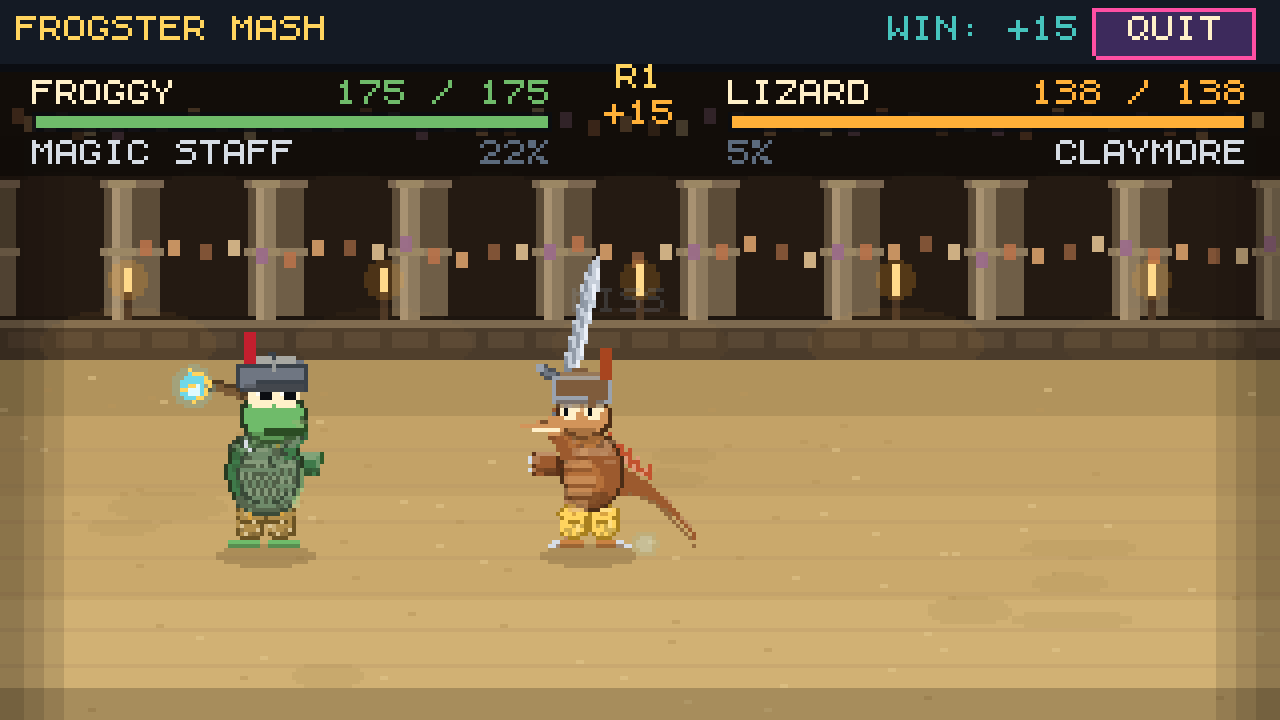
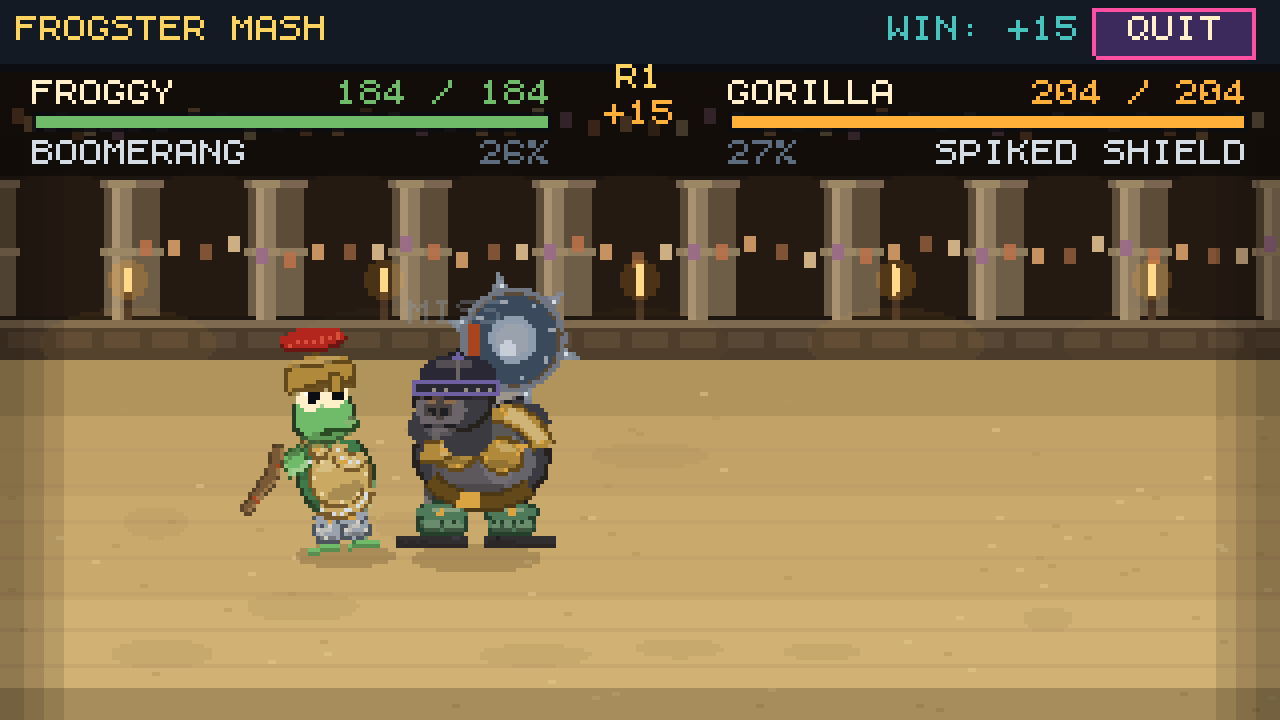
Mash: each armour piece says what it is for its own part of the body
A material was one line on the card whatever it was covering, so a
chain hood, a chain shirt and chain leggings all read the same, and a
helmet's line ('YOU WILL HEAR NOTHING') turned up on a chest piece.
Every material now carries a head, a chest and a legs line, each true to
what the material does and what that piece is -- a quilted cap, a
padded jack, quilted leggings -- and the card shows the one for the
slot being chosen.  Every line fits the card's two rows.

Claude-Session: https://claude.ai/code/session_014fZqzLJ4fL4whRPBpUnjrb

diff --git a/src/minigames/frogstermash.ts b/src/minigames/frogstermash.ts
@@ -665,6 +665,12 @@ export interface ArmourMat {
   /** The one line that says what it is for, when the numbers do not. */
   note: string;
   /**
+   * AND WHAT IT IS ON EACH PART OF THE BODY.  One material is three different
+   * pieces -- a helmet, a chest piece and something for the legs -- and the
+   * card says which one it is looking at rather than repeating the same line.
+   */
+  notes?: Partial<Record<'head' | 'body' | 'legs', string>>;
+  /**
    * A name short enough for the kit sheet, which lists three of them on one
    * centred line.  Trimming " ARMOUR" off the full name was not enough --
    * three REINFORCED HIDEs came to 330 pixels of a 320 pixel screen and went
@@ -674,7 +680,7 @@ export interface ArmourMat {
 }
 export const MATERIALS: ArmourMat[] = [
   // ---- NOTHING, AND THE THINGS THAT BARELY COUNT
-  { key: 'none', name: 'NO ARMOUR', def: 0, evade: 0, heavy: [1, 1], resist: [10, 10], colour: 0x6d5a45, edge: 0x4a3c2d, short: 'NONE', note: 'NOTHING THERE, AND NOTHING TO CARRY' },
+  { key: 'none', name: 'NO ARMOUR', def: 0, evade: 0, heavy: [1, 1], resist: [10, 10], colour: 0x6d5a45, edge: 0x4a3c2d, short: 'NONE', note: 'NOTHING THERE, AND NOTHING TO CARRY', notes: { head: 'A BARE HEAD. EVERY BLOW GOES STRAIGHT IN', body: 'NOTHING THERE, AND NOTHING TO CARRY', legs: 'BARE LEGS. QUICK, AND NOTHING IN THE WAY' } },
   // ---- TEN MORE, FILLING THE LADDER RATHER THAN EXTENDING IT.
   //
   // None of these is better than HEAVY PLATE and none is lighter than cloth:
@@ -682,44 +688,44 @@ export const MATERIALS: ArmourMat[] = [
   // instead of jumps.  Three of them break the pattern on purpose -- bone and
   // dragon scale shrug off quick hits and not heavy ones, obsidian stops a
   // great deal and shatters while it does it.
-  { key: 'padded', name: 'PADDED JACK', def: 0.08, evade: 0.05, heavy: [1, 2], resist: [3, 5], colour: 0xc9b48c, edge: 0x8a7654, short: 'PADDED', note: 'CLOTH, BUT ENOUGH OF IT TO NOTICE' },
-  { key: 'hide', name: 'HIDE ARMOUR', def: 0.12, evade: 0, heavy: [2, 4], resist: [4, 6], colour: 0x8a6440, edge: 0x4f3722, short: 'HIDE', note: 'SOMETHING ELSE WORE IT FIRST' },
-  { key: 'studded', name: 'STUDDED LEATHER', def: 0.14, evade: 0, heavy: [3, 5], resist: [6, 8], colour: 0x7f5c3c, edge: 0x9aa2ae, short: 'STUDDED', note: 'LEATHER WITH OPINIONS HAMMERED INTO IT' },
-  { key: 'bone', name: 'BONE ARMOUR', def: 0.17, evade: 0, soft: 0.38, heavy: [3, 5], resist: [4, 6], colour: 0xe4ddc6, edge: 0x9c9482, short: 'BONE', note: 'TURNS THE QUICK ONES. SPLITS ON THE REST' },
-  { key: 'brigandine', name: 'BRIGANDINE', def: 0.19, evade: 0, heavy: [4, 6], resist: [7, 9], colour: 0x6b4f3a, edge: 0xb9c2c8, short: 'BRIG', note: 'PLATES ON THE INSIDE WHERE THEY CANNOT SEE THEM' },
-  { key: 'lamellar', name: 'LAMELLAR ARMOUR', def: 0.22, evade: 0, heavy: [4, 6], resist: [6, 8], colour: 0x8a7f5e, edge: 0x4e4634, short: 'LAMELLAR', note: 'A THOUSAND LITTLE PLATES, ALL LACED TOGETHER' },
-  { key: 'corinthian', name: 'CORINTHIAN HELM', def: 0.24, evade: 0, heavy: [4, 6], resist: [7, 9], colour: 0xb08d4a, edge: 0x6b5324, short: 'CORINTH', note: 'YOU WILL LOOK MAGNIFICENT AND HEAR NOTHING' },
-  { key: 'knight', name: 'KNIGHT HELM', def: 0.27, evade: 0, heavy: [5, 7], resist: [7, 9], colour: 0xa9b2bd, edge: 0x59616b, short: 'KNIGHT', note: 'A LETTERBOX TO SEE THE WHOLE FIGHT THROUGH' },
-  { key: 'obsidian', name: 'OBSIDIAN ARMOUR', def: 0.29, evade: 0, heavy: [5, 7], resist: [2, 4], colour: 0x2b2836, edge: 0x6d5fa0, short: 'OBSIDIAN', note: 'STOPS ALMOST ANYTHING, ALMOST ONCE' },
-  { key: 'dragon', name: 'DRAGON SCALE', def: 0.31, evade: 0, soft: 0.34, heavy: [6, 8], resist: [7, 9], colour: 0x4f7a5a, edge: 0x24402c, short: 'DRAGON', note: 'NOBODY ASKS WHERE IT CAME FROM' },
+  { key: 'padded', name: 'PADDED JACK', def: 0.08, evade: 0.05, heavy: [1, 2], resist: [3, 5], colour: 0xc9b48c, edge: 0x8a7654, short: 'PADDED', note: 'CLOTH, BUT ENOUGH OF IT TO NOTICE', notes: { head: 'A QUILTED CAP. TAKES THE EDGE OFF A KNOCK', body: 'CLOTH, BUT ENOUGH OF IT TO NOTICE', legs: 'QUILTED LEGGINGS. SOFT, WARM, NOT MUCH ELSE' } },
+  { key: 'hide', name: 'HIDE ARMOUR', def: 0.12, evade: 0, heavy: [2, 4], resist: [4, 6], colour: 0x8a6440, edge: 0x4f3722, short: 'HIDE', note: 'SOMETHING ELSE WORE IT FIRST', notes: { head: 'A FUR HOOD WITH THE EARS STILL ON IT', body: 'SOMETHING ELSE WORE IT FIRST', legs: 'RAWHIDE WRAPPED ROUND THE SHINS AND TIED' } },
+  { key: 'studded', name: 'STUDDED LEATHER', def: 0.14, evade: 0, heavy: [3, 5], resist: [6, 8], colour: 0x7f5c3c, edge: 0x9aa2ae, short: 'STUDDED', note: 'LEATHER WITH OPINIONS HAMMERED INTO IT', notes: { head: 'A LEATHER CAP STUDDED ROUND THE BRIM', body: 'LEATHER WITH OPINIONS HAMMERED INTO IT', legs: 'STUDDED LEGGINGS THAT JINGLE WHEN YOU RUN' } },
+  { key: 'bone', name: 'BONE ARMOUR', def: 0.17, evade: 0, soft: 0.38, heavy: [3, 5], resist: [4, 6], colour: 0xe4ddc6, edge: 0x9c9482, short: 'BONE', note: 'TURNS THE QUICK ONES. SPLITS ON THE REST', notes: { head: 'A SKULL FOR A HELMET. IT TURNS THE QUICK ONES', body: 'RIBS OVER RIBS. TURNS THE QUICK ONES, SPLITS ON THE REST', legs: 'BONE SPLINTS ON THE SHINS. LIGHT, AND BRITTLE' } },
+  { key: 'brigandine', name: 'BRIGANDINE', def: 0.19, evade: 0, heavy: [4, 6], resist: [7, 9], colour: 0x6b4f3a, edge: 0xb9c2c8, short: 'BRIG', note: 'PLATES ON THE INSIDE WHERE THEY CANNOT SEE THEM', notes: { head: 'A CLOTH CAP WITH IRON SEWN IN UNDER IT', body: 'PLATES ON THE INSIDE WHERE THEY CANNOT SEE THEM', legs: 'RIVETED CLOTH OVER IRON STRIPS DOWN THE THIGH' } },
+  { key: 'lamellar', name: 'LAMELLAR ARMOUR', def: 0.22, evade: 0, heavy: [4, 6], resist: [6, 8], colour: 0x8a7f5e, edge: 0x4e4634, short: 'LAMELLAR', note: 'A THOUSAND LITTLE PLATES, ALL LACED TOGETHER', notes: { head: 'LITTLE PLATES LACED IN A SKIRT ROUND THE HEAD', body: 'A THOUSAND LITTLE PLATES, ALL LACED TOGETHER', legs: 'LACED LAMES DOWN THE LEG THAT BEND AS IT DOES' } },
+  { key: 'corinthian', name: 'CORINTHIAN HELM', def: 0.24, evade: 0, heavy: [4, 6], resist: [7, 9], colour: 0xb08d4a, edge: 0x6b5324, short: 'CORINTH', note: 'YOU WILL LOOK MAGNIFICENT AND HEAR NOTHING', notes: { head: 'YOU WILL LOOK MAGNIFICENT AND HEAR NOTHING', body: 'A BRONZE CHEST CAST TO LOOK LIKE MUSCLES', legs: 'BRONZE GREAVES CAST TO THE SHAPE OF A SHIN' } },
+  { key: 'knight', name: 'KNIGHT HELM', def: 0.27, evade: 0, heavy: [5, 7], resist: [7, 9], colour: 0xa9b2bd, edge: 0x59616b, short: 'KNIGHT', note: 'A LETTERBOX TO SEE THE WHOLE FIGHT THROUGH', notes: { head: 'A LETTERBOX TO SEE THE WHOLE FIGHT THROUGH', body: 'A POLISHED CUIRASS, MADE TO BE SEEN', legs: 'JOINTED STEEL, KNEE TO ANKLE. IT CLANKS' } },
+  { key: 'obsidian', name: 'OBSIDIAN ARMOUR', def: 0.29, evade: 0, heavy: [5, 7], resist: [2, 4], colour: 0x2b2836, edge: 0x6d5fa0, short: 'OBSIDIAN', note: 'STOPS ALMOST ANYTHING, ALMOST ONCE', notes: { head: 'A GLASS HELM THAT STOPS A SKULL-SPLITTER ONCE', body: 'STOPS ALMOST ANYTHING, ALMOST ONCE', legs: 'BLACK GLASS SHIN PLATES. THEY WILL SHATTER' } },
+  { key: 'dragon', name: 'DRAGON SCALE', def: 0.31, evade: 0, soft: 0.34, heavy: [6, 8], resist: [7, 9], colour: 0x4f7a5a, edge: 0x24402c, short: 'DRAGON', note: 'NOBODY ASKS WHERE IT CAME FROM', notes: { head: 'A HORNED CAP OF DRAGON SCALE. NOBODY ASKS', body: 'NOBODY ASKS WHERE IT CAME FROM', legs: 'SCALED LEGGINGS. SHRUGS OFF THE QUICK ONES' } },
 
-  { key: 'cloth', name: 'LIGHT CLOTH ARMOUR', def: 0.04, evade: 0.09, heavy: [1, 1], resist: [2, 4], colour: 0xd8cbb0, edge: 0x9a8e74, short: 'CLOTH', note: 'YOU WILL BE VERY QUICK AND VERY SORRY' },
-  { key: 'tuxedo', name: 'TUXEDO', def: 0.05, evade: 0, heavy: [1, 2], resist: [2, 4], colour: 0x2a2d3a, edge: 0xdfe4ee, short: 'TUXEDO', note: 'FIVE PERCENT DEFENCE. THE REST IS FASHION' },
-  { key: 'crown', name: 'CROWN', def: 0.06, evade: 0, heavy: [1, 2], resist: [3, 5], colour: 0xffd45e, edge: 0xa8801e, short: 'CROWN', note: 'IT PROTECTS NOTHING AND MEANS EVERYTHING' },
+  { key: 'cloth', name: 'LIGHT CLOTH ARMOUR', def: 0.04, evade: 0.09, heavy: [1, 1], resist: [2, 4], colour: 0xd8cbb0, edge: 0x9a8e74, short: 'CLOTH', note: 'YOU WILL BE VERY QUICK AND VERY SORRY', notes: { head: 'A HEADBAND. KEEPS THE SWEAT OUT, NOT THE CLUB', body: 'YOU WILL BE VERY QUICK AND VERY SORRY', legs: 'LOOSE TROUSERS. NOTHING SLOWS YOU DOWN' } },
+  { key: 'tuxedo', name: 'TUXEDO', def: 0.05, evade: 0, heavy: [1, 2], resist: [2, 4], colour: 0x2a2d3a, edge: 0xdfe4ee, short: 'TUXEDO', note: 'FIVE PERCENT DEFENCE. THE REST IS FASHION', notes: { head: 'A TOP HAT. IT WILL NOT SURVIVE THE FIRST ROUND', body: 'FIVE PERCENT DEFENCE. THE REST IS FASHION', legs: 'PRESSED TROUSERS WITH A VERY SHARP CREASE' } },
+  { key: 'crown', name: 'CROWN', def: 0.06, evade: 0, heavy: [1, 2], resist: [3, 5], colour: 0xffd45e, edge: 0xa8801e, short: 'CROWN', note: 'IT PROTECTS NOTHING AND MEANS EVERYTHING', notes: { head: 'IT PROTECTS NOTHING AND MEANS EVERYTHING', body: 'ROYAL ROBES. THE CROWD CHEERS, THE AXE DOES NOT', legs: 'GOLD-TRIMMED HOSE. REGAL AND USELESS' } },
 
   // ---- LIGHT
-  { key: 'leather', name: 'LEATHER ARMOUR', def: 0.10, evade: 0, heavy: [2, 4], resist: [5, 7], colour: 0x9c7248, edge: 0x5d4028, short: 'LEATHER', note: 'LIGHT, AND ABOUT AS USEFUL AS THAT SOUNDS' },
-  { key: 'tactical', name: 'TACTICAL ARMOUR', def: 0.10, evade: 0.15, heavy: [2, 4], resist: [6, 8], colour: 0x3f4a3a, edge: 0x22281f, short: 'TACTICAL', note: 'STOPS LITTLE. MUCH HARDER TO HIT' },
-  { key: 'reinforced', name: 'REINFORCED LEATHER', def: 0.13, evade: 0, heavy: [3, 5], resist: [7, 9], colour: 0x7a5a3a, edge: 0x452f1c, short: 'R.LEATHER', note: 'LEATHER THAT HAS BEEN THOUGHT ABOUT' },
-  { key: 'tin', name: 'TIN ARMOUR', def: 0.15, evade: 0, heavy: [3, 5], resist: [3, 5], colour: 0xb9c2c8, edge: 0x6d767c, short: 'TIN', note: 'CHEAP, LOUD, BETTER THAN A SHIRT' },
-  { key: 'hood', name: 'CHAIN HOOD', def: 0.16, evade: 0, heavy: [3, 5], resist: [6, 8], colour: 0x87909c, edge: 0x464e58, short: 'HOOD', note: 'RINGS, AND NOT MANY OF THEM' },
+  { key: 'leather', name: 'LEATHER ARMOUR', def: 0.10, evade: 0, heavy: [2, 4], resist: [5, 7], colour: 0x9c7248, edge: 0x5d4028, short: 'LEATHER', note: 'LIGHT, AND ABOUT AS USEFUL AS THAT SOUNDS', notes: { head: 'A LEATHER CAP. BETTER THAN HAIR', body: 'LIGHT, AND ABOUT AS USEFUL AS THAT SOUNDS', legs: 'LEATHER CHAPS. THEY STOP A SCRATCH' } },
+  { key: 'tactical', name: 'TACTICAL ARMOUR', def: 0.10, evade: 0.15, heavy: [2, 4], resist: [6, 8], colour: 0x3f4a3a, edge: 0x22281f, short: 'TACTICAL', note: 'STOPS LITTLE. MUCH HARDER TO HIT', notes: { head: 'A PADDED HEADSET. HARDER TO HIT, NOT HARDER', body: 'STOPS LITTLE. MUCH HARDER TO HIT', legs: 'CARGO KNEE PADS. LIGHT FEET, QUICK DODGES' } },
+  { key: 'reinforced', name: 'REINFORCED LEATHER', def: 0.13, evade: 0, heavy: [3, 5], resist: [7, 9], colour: 0x7a5a3a, edge: 0x452f1c, short: 'R.LEATHER', note: 'LEATHER THAT HAS BEEN THOUGHT ABOUT', notes: { head: 'BOILED LEATHER, SET HARD ROUND THE SKULL', body: 'LEATHER THAT HAS BEEN THOUGHT ABOUT', legs: 'STIFFENED LEATHER GREAVES, LACED TIGHT' } },
+  { key: 'tin', name: 'TIN ARMOUR', def: 0.15, evade: 0, heavy: [3, 5], resist: [3, 5], colour: 0xb9c2c8, edge: 0x6d767c, short: 'TIN', note: 'CHEAP, LOUD, BETTER THAN A SHIRT', notes: { head: 'A TIN POT WITH A CHIN STRAP. IT RINGS', body: 'CHEAP, LOUD, BETTER THAN A SHIRT', legs: 'TIN SHIN GUARDS. THEY DENT, THEN THEY BEND' } },
+  { key: 'hood', name: 'CHAIN HOOD', def: 0.16, evade: 0, heavy: [3, 5], resist: [6, 8], colour: 0x87909c, edge: 0x464e58, short: 'HOOD', note: 'RINGS, AND NOT MANY OF THEM', notes: { head: 'A MAIL COIF. RINGS, AND NOT MANY OF THEM', body: 'A SHORT MAIL SHIRT THAT STOPS AT THE RIBS', legs: 'MAIL CHAUSSES. SLICES STOP, BRUISES DO NOT' } },
 
   // ---- THE MIDDLE
-  { key: 'scale', name: 'SCALE ARMOUR', def: 0.18, evade: 0, soft: 0.34, heavy: [4, 6], resist: [6, 8], colour: 0x6f8a6a, edge: 0x3a4a38, short: 'SCALE', note: 'SHRUGS OFF THE QUICK ONES. NOT THE BIG ONES' },
-  { key: 'chain', name: 'CHAIN ARMOUR', def: 0.20, evade: 0, heavy: [4, 6], resist: [6, 8], colour: 0x8e9cad, edge: 0x4a5665, short: 'CHAIN', note: 'THE HONEST MIDDLE OF THE RACK' },
-  { key: 'bronze', name: 'BRONZE ARMOUR', def: 0.21, evade: 0, heavy: [5, 7], resist: [5, 7], colour: 0xc08a3e, edge: 0x6f4b1c, short: 'BRONZE', note: 'OLDER THAN IRON AND NEARLY AS GOOD' },
-  { key: 'viking', name: 'VIKING HELM', def: 0.22, evade: 0, heavy: [5, 7], resist: [7, 9], colour: 0x9aa3ad, edge: 0x4e555e, short: 'VIKING', note: 'HORNS, WHICH HELP WITH NOTHING' },
-  { key: 'spartan', name: 'SPARTAN HELM', def: 0.23, evade: 0, heavy: [5, 7], resist: [7, 9], colour: 0xb08a3a, edge: 0x63481a, short: 'SPARTAN', note: 'YOU WILL SEE LESS AND MIND IT LESS' },
-  { key: 'legion', name: 'ROMAN LEGION', def: 0.23, evade: 0, heavy: [5, 7], resist: [8, 10], colour: 0xc2a15a, edge: 0x6d5528, short: 'LEGION', note: 'ISSUED, AND IT SHOWS. IT LASTS' },
-  { key: 'roman', name: 'ROMAN HELMET', def: 0.24, evade: 0, heavy: [5, 7], resist: [8, 10], colour: 0xcaa963, edge: 0x77592a, short: 'ROMAN', note: 'A CHEEK GUARD AND A VERY RED BRUSH' },
+  { key: 'scale', name: 'SCALE ARMOUR', def: 0.18, evade: 0, soft: 0.34, heavy: [4, 6], resist: [6, 8], colour: 0x6f8a6a, edge: 0x3a4a38, short: 'SCALE', note: 'SHRUGS OFF THE QUICK ONES. NOT THE BIG ONES', notes: { head: 'SCALES ROUND THE CROWN. SHRUGS OFF THE QUICK ONES', body: 'SHRUGS OFF THE QUICK ONES. NOT THE BIG ONES', legs: 'SCALED TASSETS OVER THE THIGHS. LIGHT HITS SLIDE' } },
+  { key: 'chain', name: 'CHAIN ARMOUR', def: 0.20, evade: 0, heavy: [4, 6], resist: [6, 8], colour: 0x8e9cad, edge: 0x4a5665, short: 'CHAIN', note: 'THE HONEST MIDDLE OF THE RACK', notes: { head: 'A MAIL HOOD. THE HONEST MIDDLE OF THE RACK', body: 'THE HONEST MIDDLE OF THE RACK', legs: 'MAIL LEGGINGS. THEY STOP A BLADE, NOT A CLUB' } },
+  { key: 'bronze', name: 'BRONZE ARMOUR', def: 0.21, evade: 0, heavy: [5, 7], resist: [5, 7], colour: 0xc08a3e, edge: 0x6f4b1c, short: 'BRONZE', note: 'OLDER THAN IRON AND NEARLY AS GOOD', notes: { head: 'A BRONZE BOWL. OLDER THAN IRON, NEARLY AS GOOD', body: 'OLDER THAN IRON AND NEARLY AS GOOD', legs: 'BRONZE GREAVES. THEY WILL OUTLAST THE FIGHT' } },
+  { key: 'viking', name: 'VIKING HELM', def: 0.22, evade: 0, heavy: [5, 7], resist: [7, 9], colour: 0x9aa3ad, edge: 0x4e555e, short: 'VIKING', note: 'HORNS, WHICH HELP WITH NOTHING', notes: { head: 'HORNS, WHICH HELP WITH NOTHING', body: 'A MAIL BYRNIE UNDER A FUR CLOAK', legs: 'WOOL WRAPS AND IRON BANDS ROUND THE CALVES' } },
+  { key: 'spartan', name: 'SPARTAN HELM', def: 0.23, evade: 0, heavy: [5, 7], resist: [7, 9], colour: 0xb08a3a, edge: 0x63481a, short: 'SPARTAN', note: 'YOU WILL SEE LESS AND MIND IT LESS', notes: { head: 'YOU WILL SEE LESS AND MIND IT LESS', body: 'A BRONZE BELL CUIRASS. NO RETREAT IN IT', legs: 'BRONZE GREAVES THAT CLIP ON WITHOUT STRAPS' } },
+  { key: 'legion', name: 'ROMAN LEGION', def: 0.23, evade: 0, heavy: [5, 7], resist: [8, 10], colour: 0xc2a15a, edge: 0x6d5528, short: 'LEGION', note: 'ISSUED, AND IT SHOWS. IT LASTS', notes: { head: 'A STANDARD ISSUE HELMET. IT LASTS', body: 'ISSUED, AND IT SHOWS. IT LASTS', legs: 'ISSUED GREAVES AND HOBNAILED SANDALS' } },
+  { key: 'roman', name: 'ROMAN HELMET', def: 0.24, evade: 0, heavy: [5, 7], resist: [8, 10], colour: 0xcaa963, edge: 0x77592a, short: 'ROMAN', note: 'A CHEEK GUARD AND A VERY RED BRUSH', notes: { head: 'A CHEEK GUARD AND A VERY RED BRUSH', body: 'BANDED PLATES OVER THE SHOULDERS AND RIBS', legs: 'A PTERUGES SKIRT OF STRIPS AND TWO GREAVES' } },
 
   // ---- HEAVY
-  { key: 'iron', name: 'IRON ARMOUR', def: 0.25, evade: 0, heavy: [6, 8], resist: [7, 9], colour: 0x6f7682, edge: 0x3a4149, short: 'IRON', note: 'HEAVY, AND WORTH IT' },
-  { key: 'shoulder', name: 'SHOULDER GUARDS', def: 0.26, evade: 0, heavy: [6, 8], resist: [7, 9], colour: 0x7e868f, edge: 0x424952, short: 'PAULDRON', note: 'ENORMOUS. YOU WILL NOT TURN QUICKLY' },
-  { key: 'spiked', name: 'SPIKED ARMOUR', def: 0.26, evade: 0, thorns: 9, heavy: [6, 8], resist: [6, 8], colour: 0x5e5a63, edge: 0xbfc6cf, short: 'SPIKED', note: 'PUNCH IT AND FIND OUT. BLADES DO NOT CARE' },
-  { key: 'plate', name: 'PLATE ARMOUR', def: 0.28, evade: 0, heavy: [7, 9], resist: [8, 10], colour: 0xc3cad4, edge: 0x646c78, short: 'PLATE', note: 'A WALL WITH A FROG INSIDE IT' },
-  { key: 'gold', name: 'GOLD ARMOUR', def: 0.30, evade: 0, heavy: [7, 9], resist: [4, 6], colour: 0xffd45e, edge: 0xa8801e, short: 'GOLD', note: 'THE BEST THERE IS, AND THE SOFTEST' },
-  { key: 'heavyplate', name: 'HEAVY PLATE', def: 0.33, evade: 0, heavy: [9, 10], resist: [9, 10], colour: 0x9aa2ae, edge: 0x4d545e, short: 'H.PLATE', note: 'NOTHING GETS IN. NOTHING GETS OUT EITHER' },
+  { key: 'iron', name: 'IRON ARMOUR', def: 0.25, evade: 0, heavy: [6, 8], resist: [7, 9], colour: 0x6f7682, edge: 0x3a4149, short: 'IRON', note: 'HEAVY, AND WORTH IT', notes: { head: 'AN IRON HELM. HEAVY ON THE NECK, AND WORTH IT', body: 'HEAVY, AND WORTH IT', legs: 'IRON GREAVES. THEY SLOW THE LEGS, NOT THE FIGHT' } },
+  { key: 'shoulder', name: 'SHOULDER GUARDS', def: 0.26, evade: 0, heavy: [6, 8], resist: [7, 9], colour: 0x7e868f, edge: 0x424952, short: 'PAULDRON', note: 'ENORMOUS. YOU WILL NOT TURN QUICKLY', notes: { head: 'A GREAT HELM TO MATCH. YOU WILL NOT LOOK UP', body: 'ENORMOUS. YOU WILL NOT TURN QUICKLY', legs: 'THIGH PLATES AS BROAD AS THE PAULDRONS' } },
+  { key: 'spiked', name: 'SPIKED ARMOUR', def: 0.26, evade: 0, thorns: 9, heavy: [6, 8], resist: [6, 8], colour: 0x5e5a63, edge: 0xbfc6cf, short: 'SPIKED', note: 'PUNCH IT AND FIND OUT. BLADES DO NOT CARE', notes: { head: 'A SPIKE ON TOP. HEADBUTTS ARE A PLAN NOW', body: 'PUNCH IT AND FIND OUT. BLADES DO NOT CARE', legs: 'SPIKED KNEES. KICK IT AND REGRET IT' } },
+  { key: 'plate', name: 'PLATE ARMOUR', def: 0.28, evade: 0, heavy: [7, 9], resist: [8, 10], colour: 0xc3cad4, edge: 0x646c78, short: 'PLATE', note: 'A WALL WITH A FROG INSIDE IT', notes: { head: 'A CLOSED STEEL HELM. A WALL ROUND YOUR HEAD', body: 'A WALL WITH A FROG INSIDE IT', legs: 'PLATE FROM HIP TO ANKLE. STEADY ON YOUR FEET' } },
+  { key: 'gold', name: 'GOLD ARMOUR', def: 0.30, evade: 0, heavy: [7, 9], resist: [4, 6], colour: 0xffd45e, edge: 0xa8801e, short: 'GOLD', note: 'THE BEST THERE IS, AND THE SOFTEST', notes: { head: 'A GOLD HELM. THE BEST THERE IS, AND THE SOFTEST', body: 'THE BEST THERE IS, AND THE SOFTEST', legs: 'GOLD GREAVES. THE CROWD WATCHES YOUR FEET' } },
+  { key: 'heavyplate', name: 'HEAVY PLATE', def: 0.33, evade: 0, heavy: [9, 10], resist: [9, 10], colour: 0x9aa2ae, edge: 0x4d545e, short: 'H.PLATE', note: 'NOTHING GETS IN. NOTHING GETS OUT EITHER', notes: { head: 'A GREAT HELM. NOTHING GETS IN, NOT EVEN SOUND', body: 'NOTHING GETS IN. NOTHING GETS OUT EITHER', legs: 'HEAVY PLATE LEGS. YOU WALK LIKE A DOOR' } },
 ];
 
 
@@ -6220,7 +6226,7 @@ function showCard(p: Piece | undefined): void {
       `HEAVINESS ${bar(p.rHeavy)} ${p.rHeavy}`,
       `RESIST    ${bar(p.rResist)} ${p.rResist}`,
       '',
-      ...wrapTo(m.note),
+      ...wrapTo(m.notes?.[p.slot as 'head' | 'body' | 'legs'] ?? m.note),
     );
   }
   if (import.meta.env?.DEV) {
